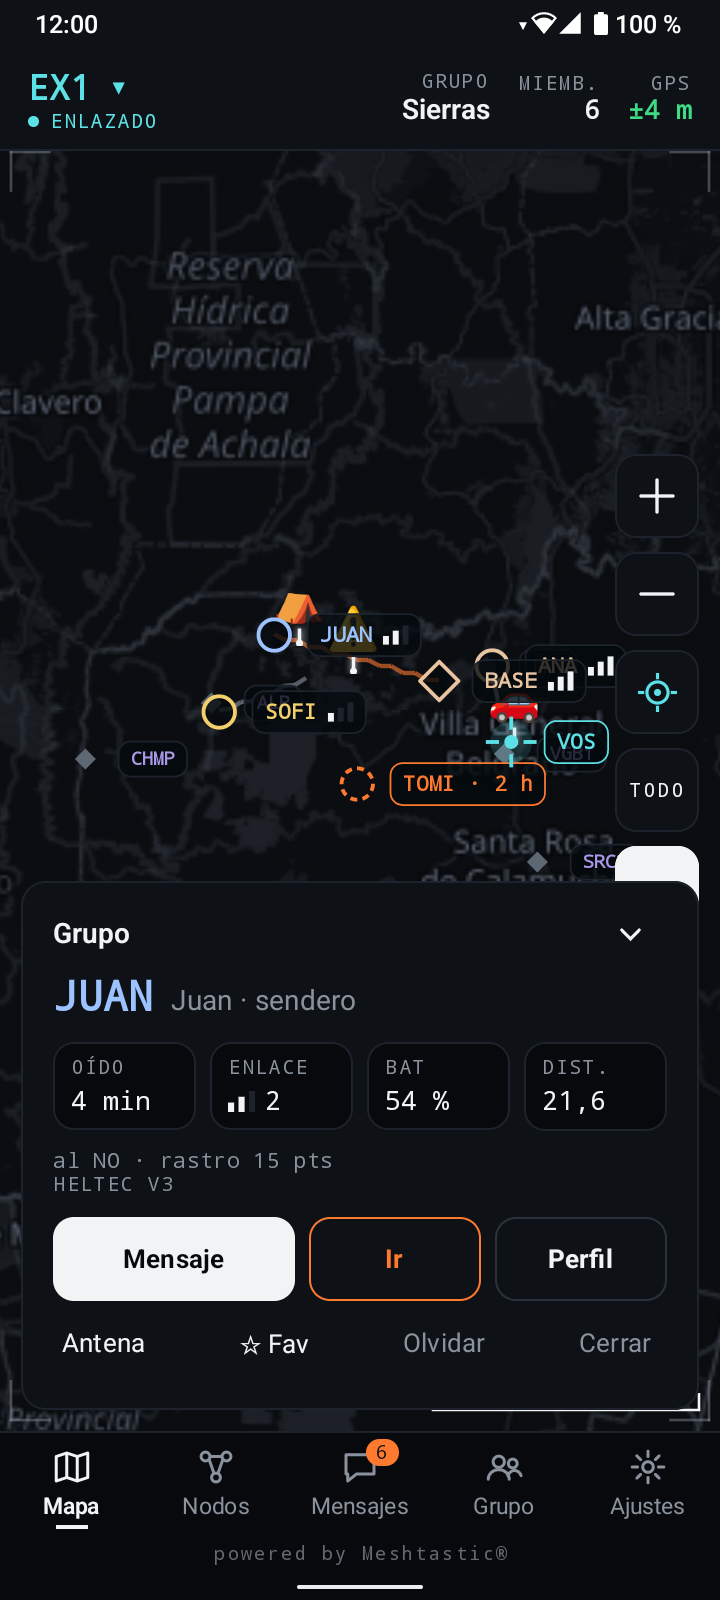
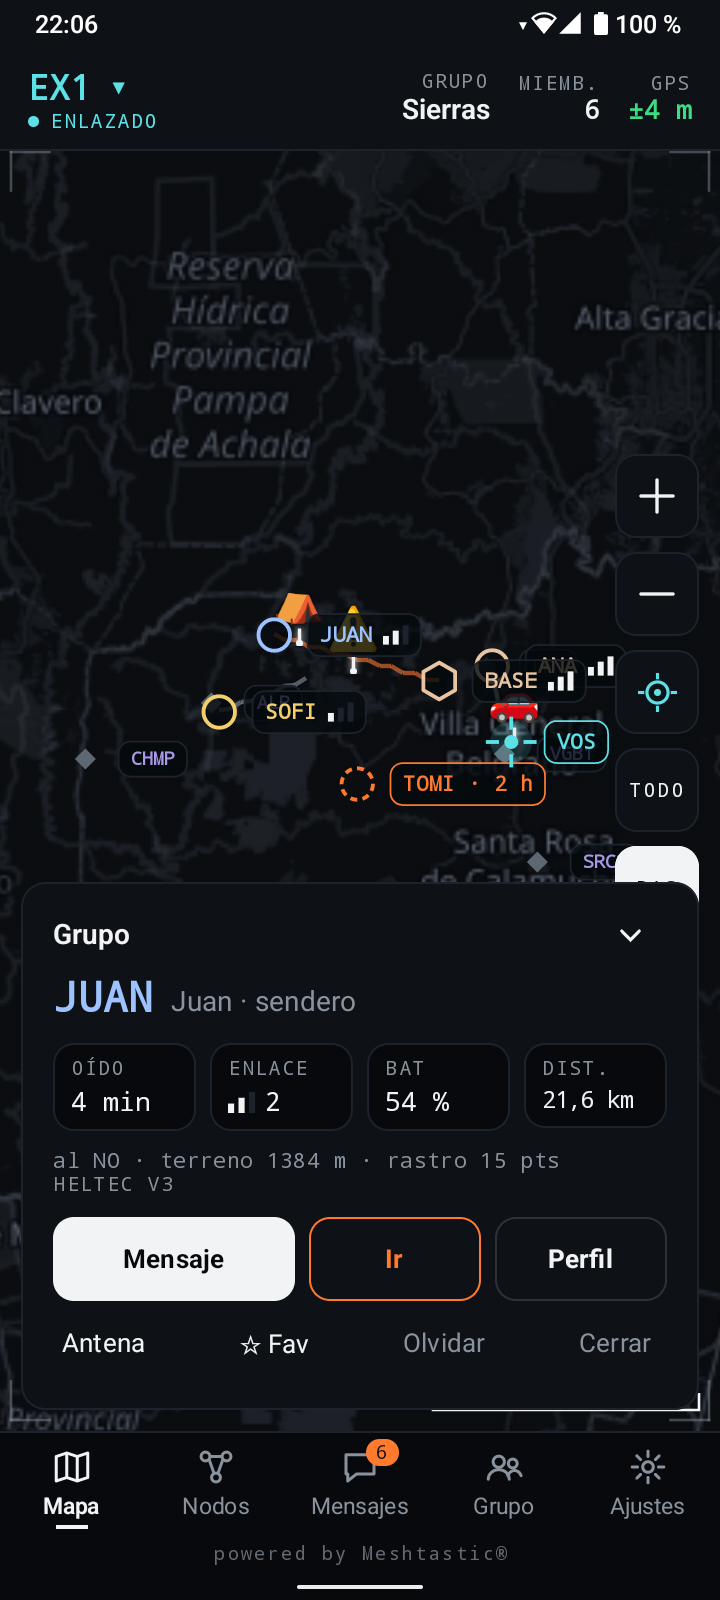
Base nodes drawn as hexagons; distance tile and coverage title no longer cut off
- New Glyph.BASE (hexagon) for group nodes in role CLIENT_BASE: map, node list,
  legend ("Base del grupo"), card header "Grupo · base". Routers stay diamonds.
- Stat tiles shrink the mono value when it is long ("21,6 km" fit at 13sp).
- Coverage legend: title "Cobertura", "hacia un nodo de mano" moved inside.
- Demo: the BASE node is now CLIENT_BASE; README screenshots and legend table updated.

Claude-Session: https://claude.ai/code/session_01CuarqPnbhZZVBMBUctnMAD

diff --git a/app/src/main/java/io/github/protohommer/meshpaper/ui/MapScreen.kt b/app/src/main/java/io/github/protohommer/meshpaper/ui/MapScreen.kt
@@ -652,6 +652,7 @@ fun MapScreen(vm: MeshViewModel, onMessage: (Int) -> Unit, modifier: Modifier = 
                         val glyph = when {
                             lost -> Glyph.LOST
                             !member -> Glyph.FOREIGN
+                            Signal.isBaseRole(n) -> Glyph.BASE
                             Signal.isFixedRole(n) -> Glyph.FIXED
                             else -> Glyph.MEMBER
                         }
@@ -840,7 +841,7 @@ private val blueDarkFilter = ColorMatrixColorFilter(ColorMatrix().apply {
 @Composable
 private fun CoverageLegend(cv: Coverage.Result, modifier: Modifier, collapsed: Boolean, onToggle: () -> Unit) {
     HudPanel(
-        modifier.width(210.dp), title = "Cobertura · nodo de mano",
+        modifier.width(210.dp), title = "Cobertura",
         padding = androidx.compose.foundation.layout.PaddingValues(10.dp), collapsed = collapsed, onToggle = onToggle,
     ) {
         val stops = (0..8).map { androidx.compose.ui.graphics.Color(Coverage.color(it / 8f, 0xFF)) }
@@ -854,6 +855,7 @@ private fun CoverageLegend(cv: Coverage.Result, modifier: Modifier, collapsed: B
             HudLabel("${lo + Coverage.FULL_SCALE_DB.toInt()}+")
         }
         HudLabel("Al límite → fuerte")
+        HudLabel("Hacia un nodo de mano")
     }
 }
 
@@ -865,7 +867,8 @@ private fun Legend(modifier: Modifier, expanded: Boolean, onToggle: () -> Unit, 
     ) {
         Column(Modifier.padding(end = 8.dp), verticalArrangement = Arrangement.spacedBy(6.dp)) {
             GlyphRow(Glyph.MEMBER, "Del grupo")
-            GlyphRow(Glyph.FIXED, "Fijo del grupo (base)")
+            GlyphRow(Glyph.FIXED, "Fijo del grupo (router)")
+            GlyphRow(Glyph.BASE, "Base del grupo")
             GlyphRow(Glyph.FOREIGN, "Ajeno (violeta: repite)")
             GlyphRow(Glyph.LOST, "Perdido")
             GlyphRow(Glyph.ME, "Vos")
@@ -899,7 +902,10 @@ private fun StatTile(label: String, value: String, modifier: Modifier = Modifier
         Spacer(Modifier.height(4.dp))
         Row(verticalAlignment = Alignment.CenterVertically) {
             bars?.let { SignalBars(it, false); Spacer(Modifier.width(5.dp)) }
-            Text(value, style = io.github.protohommer.meshpaper.ui.theme.MonoValue.copy(fontWeight = FontWeight.Medium), color = if (warn) SigWeak else HudText, maxLines = 1)
+            // Mono: cada carácter ocupa lo mismo; "21,6 km" (7) no entraba a 15sp en un cuarto del ancho.
+            val len = value.length + (if (bars != null) 2 else 0)
+            val fs = when { len >= 9 -> 12.sp; len >= 7 -> 13.sp; else -> 15.sp }
+            Text(value, style = io.github.protohommer.meshpaper.ui.theme.MonoValue.copy(fontWeight = FontWeight.Medium, fontSize = fs), color = if (warn) SigWeak else HudText, maxLines = 1, softWrap = false)
         }
     }
 }
@@ -932,7 +938,7 @@ private fun NodeCard(
         Tone.ME -> "Este nodo"
         Tone.RELAY -> "Repetidor ajeno"
         Tone.MUTE -> "Ajeno · no repite"
-        Tone.FIXED -> if (Signal.isLost(n, now)) "Grupo · fijo · sin noticias" else "Grupo · fijo"
+        Tone.FIXED -> (if (Signal.isBaseRole(n)) "Grupo · base" else "Grupo · fijo") + (if (Signal.isLost(n, now)) " · sin noticias" else "")
         else -> if (Signal.isLost(n, now)) "Grupo · sin noticias" else "Grupo"
     }
     // Minimizada queda la barra con el nombre, para ver el mapa (o la cobertura) de abajo.
@@ -1679,6 +1685,18 @@ private fun chipIcon(
     when (glyph) {
         Glyph.MEMBER -> { c.drawCircle(cx, cy, dpPx(ctx, 9f), fill(bg)); c.drawCircle(cx, cy, dpPx(ctx, 9f), stroke(ink)) }
         Glyph.FIXED -> { c.drawPath(diamond(dpPx(ctx, 11f)), fill(bg)); c.drawPath(diamond(dpPx(ctx, 11f)), stroke(ink)) }
+        Glyph.BASE -> {
+            val hex = android.graphics.Path().apply {
+                val r = dpPx(ctx, 10.5f)
+                for (i in 0..5) {
+                    val a = Math.toRadians(60.0 * i - 90.0)
+                    val x = cx + r * kotlin.math.cos(a).toFloat(); val y = cy + r * kotlin.math.sin(a).toFloat()
+                    if (i == 0) moveTo(x, y) else lineTo(x, y)
+                }
+                close()
+            }
+            c.drawPath(hex, fill(bg)); c.drawPath(hex, stroke(ink))
+        }
         Glyph.FOREIGN -> c.drawPath(diamond(dpPx(ctx, 6f)), fill(SigMute.toArgb()))
         Glyph.LOST -> c.drawCircle(cx, cy, dpPx(ctx, 9f), stroke(warn).apply { pathEffect = DashPathEffect(floatArrayOf(dpPx(ctx, 4f), dpPx(ctx, 3f)), 0f) })
         Glyph.ME -> {

diff --git a/app/src/main/java/io/github/protohommer/meshpaper/ui/Hud.kt b/app/src/main/java/io/github/protohommer/meshpaper/ui/Hud.kt
@@ -418,9 +418,9 @@ fun LegendItem(color: Color, text: String) {
 fun Modifier.graphicsLayerRotate(degrees: Float): Modifier = this.graphicsLayer { rotationZ = degrees }
 
 /** Qué es un nodo, por su forma (2.0). */
-enum class Glyph { MEMBER, FIXED, FOREIGN, LOST, ME }
+enum class Glyph { MEMBER, FIXED, BASE, FOREIGN, LOST, ME }
 
-/** La forma de un nodo: círculo del grupo, rombo fijo, rombo gris ajeno, anillo cortado perdido, retícula vos. */
+/** La forma de un nodo: círculo del grupo, rombo fijo, hexágono base, rombo gris ajeno, anillo cortado perdido, retícula vos. */
 @Composable
 fun NodeGlyph(g: Glyph, modifier: Modifier = Modifier, size: Dp = 26.dp, tint: Color? = null) {
     val ink = tint ?: HudText
@@ -437,6 +437,18 @@ fun NodeGlyph(g: Glyph, modifier: Modifier = Modifier, size: Dp = 26.dp, tint: C
         when (g) {
             Glyph.MEMBER -> drawCircle(ink, r, c, style = androidx.compose.ui.graphics.drawscope.Stroke(sw))
             Glyph.FIXED -> drawPath(diamond(r * 1.15f), ink, style = androidx.compose.ui.graphics.drawscope.Stroke(sw))
+            Glyph.BASE -> drawPath(
+                androidx.compose.ui.graphics.Path().apply {
+                    val rr = r * 1.08f
+                    for (i in 0..5) {
+                        val a = Math.toRadians(60.0 * i - 90.0)
+                        val x = c.x + rr * kotlin.math.cos(a).toFloat(); val y = c.y + rr * kotlin.math.sin(a).toFloat()
+                        if (i == 0) moveTo(x, y) else lineTo(x, y)
+                    }
+                    close()
+                },
+                ink, style = androidx.compose.ui.graphics.drawscope.Stroke(sw),
+            )
             Glyph.FOREIGN -> drawPath(diamond(r * 0.62f), mute)
             Glyph.LOST -> drawCircle(
                 warn, r, c,

diff --git a/app/src/main/java/io/github/protohommer/meshpaper/MainActivity.kt b/app/src/main/java/io/github/protohommer/meshpaper/MainActivity.kt
@@ -744,6 +744,7 @@ private fun NodeRow(
                 n.num == me -> io.github.protohommer.meshpaper.ui.Glyph.ME
                 lost -> io.github.protohommer.meshpaper.ui.Glyph.LOST
                 !member -> io.github.protohommer.meshpaper.ui.Glyph.FOREIGN
+                Signal.isBaseRole(n) -> io.github.protohommer.meshpaper.ui.Glyph.BASE
                 Signal.isFixedRole(n) -> io.github.protohommer.meshpaper.ui.Glyph.FIXED
                 else -> io.github.protohommer.meshpaper.ui.Glyph.MEMBER
             },
@@ -777,7 +778,7 @@ private fun NodeRow(
             val parts = buildList {
                 if (lost) add("perdido")
                 if (!member) add(if (n.mute) "no repite" else "repite")
-                if (member && Signal.isFixedRole(n)) add("fijo")
+                if (member && Signal.isFixedRole(n)) add(if (Signal.isBaseRole(n)) "base" else "fijo")
                 Signal.describe(n)?.let { add(it) }
                 if (n.num != me) add(agoText(now, n.lastHeard))
             }

diff --git a/app/src/main/java/io/github/protohommer/meshpaper/Demo.kt b/app/src/main/java/io/github/protohommer/meshpaper/Demo.kt
@@ -70,7 +70,7 @@ object Demo {
             node(SOFI, "SOFI", "Sofi · cumbre", 300, -31.9538, -64.8165, 4, -6.0f, true, battery = 31),
             node(TOMI, "TOMI", "Tomi", 2 * 3600, -32.0080, -64.6950, 3, -9.5f, true, battery = 12),
             node(BASE, "BASE", "Base Los Reartes", 90, -31.9310, -64.6230, 1, 6.0f, true, battery = 101,
-                role = DeviceConfig.Role.ROUTER, hw = MeshProtos.HardwareModel.RAK4631),
+                role = DeviceConfig.Role.CLIENT_BASE, hw = MeshProtos.HardwareModel.RAK4631),
             node(VGB, "VGB1", "Villa General Belgrano Rep", 60, -31.9858, -64.5655, 1, 7.0f, false,
                 role = DeviceConfig.Role.ROUTER, hw = MeshProtos.HardwareModel.RAK4631),
             node(SRC, "SRC2", "Santa Rosa Mesh", 240, -32.0660, -64.5365, 2, 1.0f, false),

diff --git a/app/src/main/java/io/github/protohommer/meshpaper/mesh/Signal.kt b/app/src/main/java/io/github/protohommer/meshpaper/mesh/Signal.kt
@@ -62,6 +62,9 @@ object Signal {
 
     fun isFixedRole(n: MeshNode): Boolean = n.role in FIXED_ROLES
 
+    /** Rol Base (CLIENT_BASE): fijo, pero repite como router solo lo de sus favoritos. Se dibuja hexágono. */
+    fun isBaseRole(n: MeshNode): Boolean = n.role == Role.CLIENT_BASE
+
     fun tone(n: MeshNode, me: Int?, member: Boolean, now: Long): Tone = when {
         n.num == me -> Tone.ME
         member && isFixedRole(n) -> Tone.FIXED

diff --git a/README.md b/README.md
@@ -3,7 +3,7 @@
 **Una app Android chica y propia para usar nodos Meshtastic en el campo: mensajes, mapa offline y
 seguimiento de un grupo cerrado, sin cuentas, sin nube y sin internet.**
 
-Versión **2.0.3** | Android 8 o más nuevo | *powered by Meshtastic®*
+Versión **2.0.4** | Android 8 o más nuevo | *powered by Meshtastic®*
 
 [![Descargar APK](https://img.shields.io/github/v/release/proto-hommer/calandriapp?label=descargar%20APK&color=2ea44f)](https://github.com/proto-hommer/calandriapp/releases/latest)
 
@@ -46,7 +46,8 @@ Cada nodo se lee de un vistazo por su **color**, su **forma** y su **borde**:
 |---|---|---|
 | **Círculo** de color, con barras al lado | Del grupo: cada persona tiene su color, el mismo en el mapa y en el chat. Tres barras: directo o 1 salto; dos: 2-3 saltos; una: 4-5 | ANA, JUAN, SOFI |
 | **Anillo cortado naranja** | Del grupo, perdido: no se lo oye hace rato (la etiqueta dice hace cuánto) | TOMI |
-| **Rombo** de color | Fijo del grupo (router, base) | BASE |
+| **Rombo** de color | Fijo del grupo: router | |
+| **Hexágono** de color | Fijo del grupo en rol **Base**: repite como router lo de sus favoritos | BASE |
 | **Rombo gris chico** | Ajeno (no es del grupo): solo sirve de repetidor; nombre **violeta** si repite | SRC2, CHMP |
 | Retícula **cian** | Vos: el teléfono y el nodo conectado. El cian es solo tuyo | VOS |
 | Emoji con un palito | Waypoint (campamento, peligro, auto…) | ⛺ ⚠ 🚗 |
@@ -198,7 +199,7 @@ sin cuentas, sin nube ni servicios de Google: todo queda en el teléfono.
 
 <p><img src="docs/img/titulos/descargar-e-instalar.png" alt="Descargar e instalar" width="100%"/></p>
 
-1. Bajá el `CalandriApp-2.0.3.apk` de la [última versión](https://github.com/proto-hommer/calandriapp/releases/latest).
+1. Bajá el `CalandriApp-2.0.4.apk` de la [última versión](https://github.com/proto-hommer/calandriapp/releases/latest).
 2. Abrilo en el celular. Android va a pedir permiso para **instalar apps de origen desconocido**:
    dáselo al navegador o al gestor de archivos con el que lo abriste.
 3. Abrí CalandriApp, dale los permisos de **Bluetooth** y **ubicación**, tocá **BUSCAR** y
